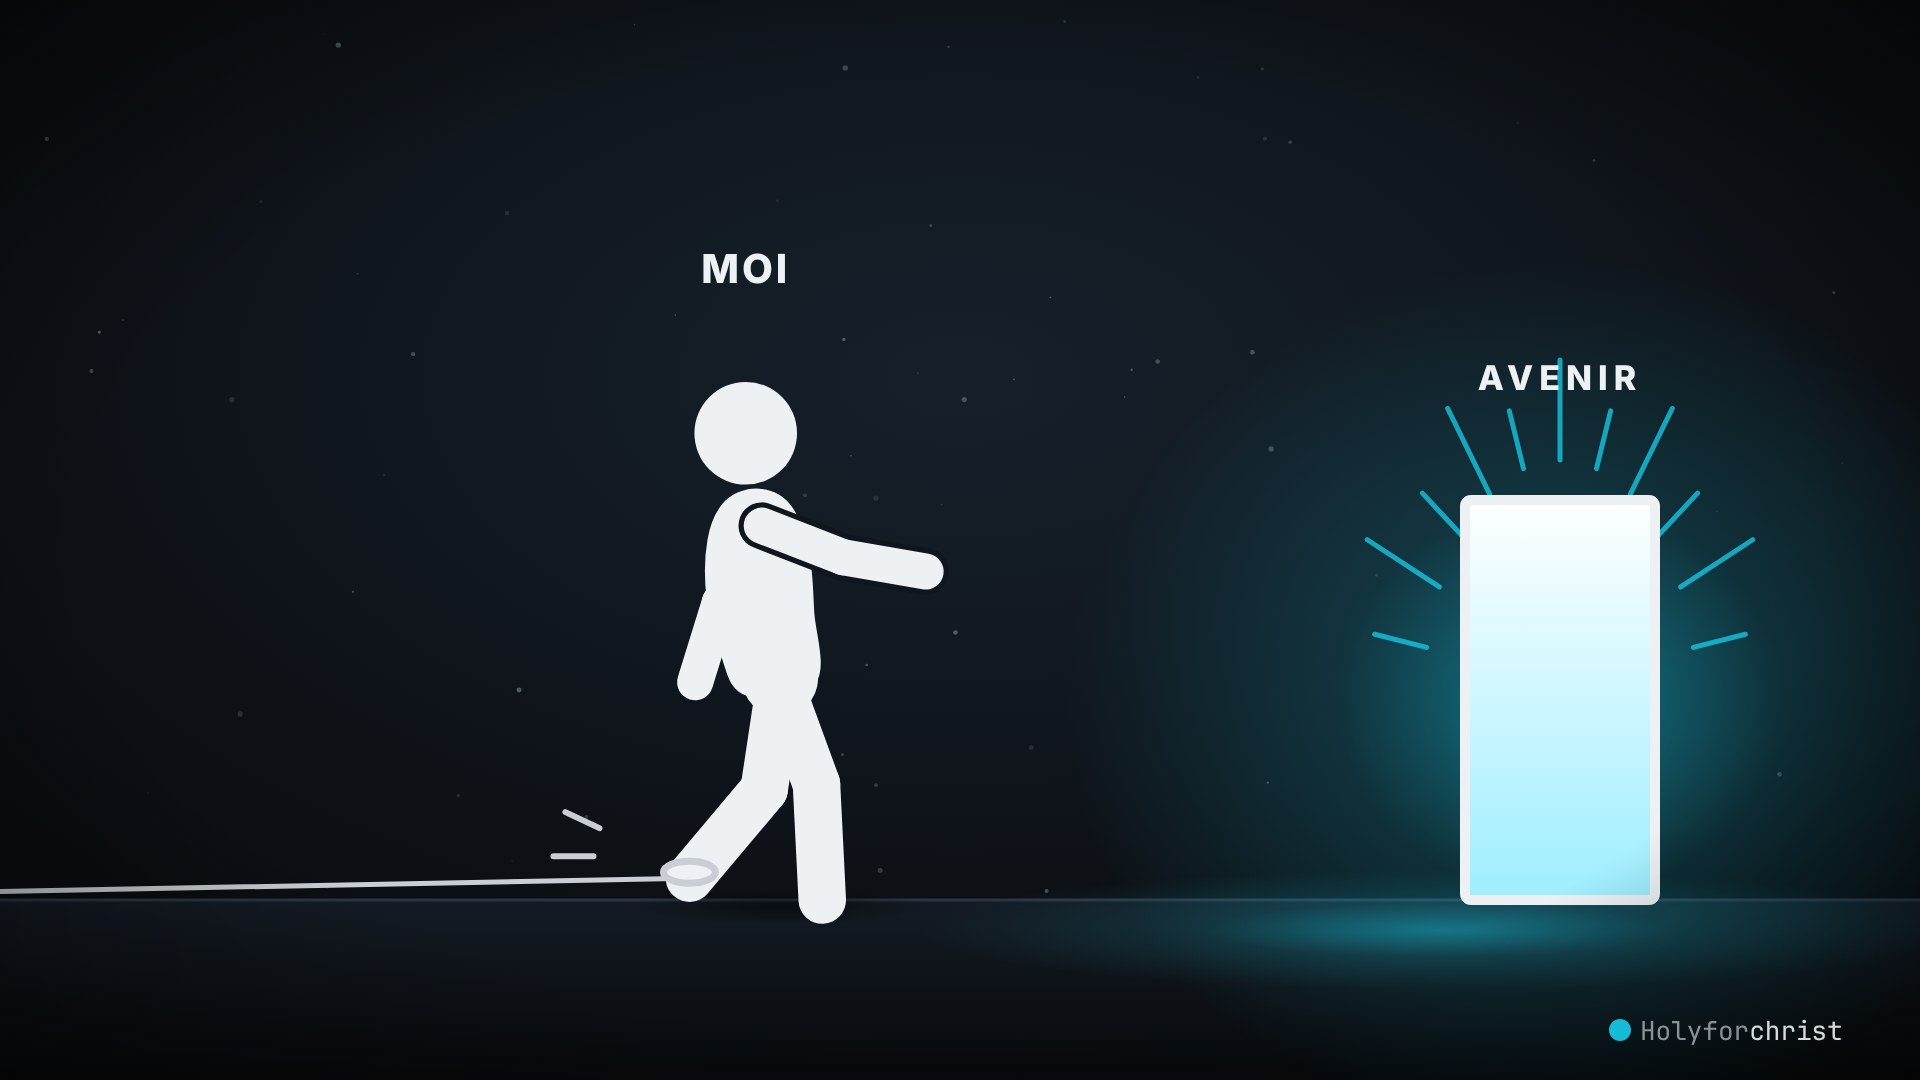
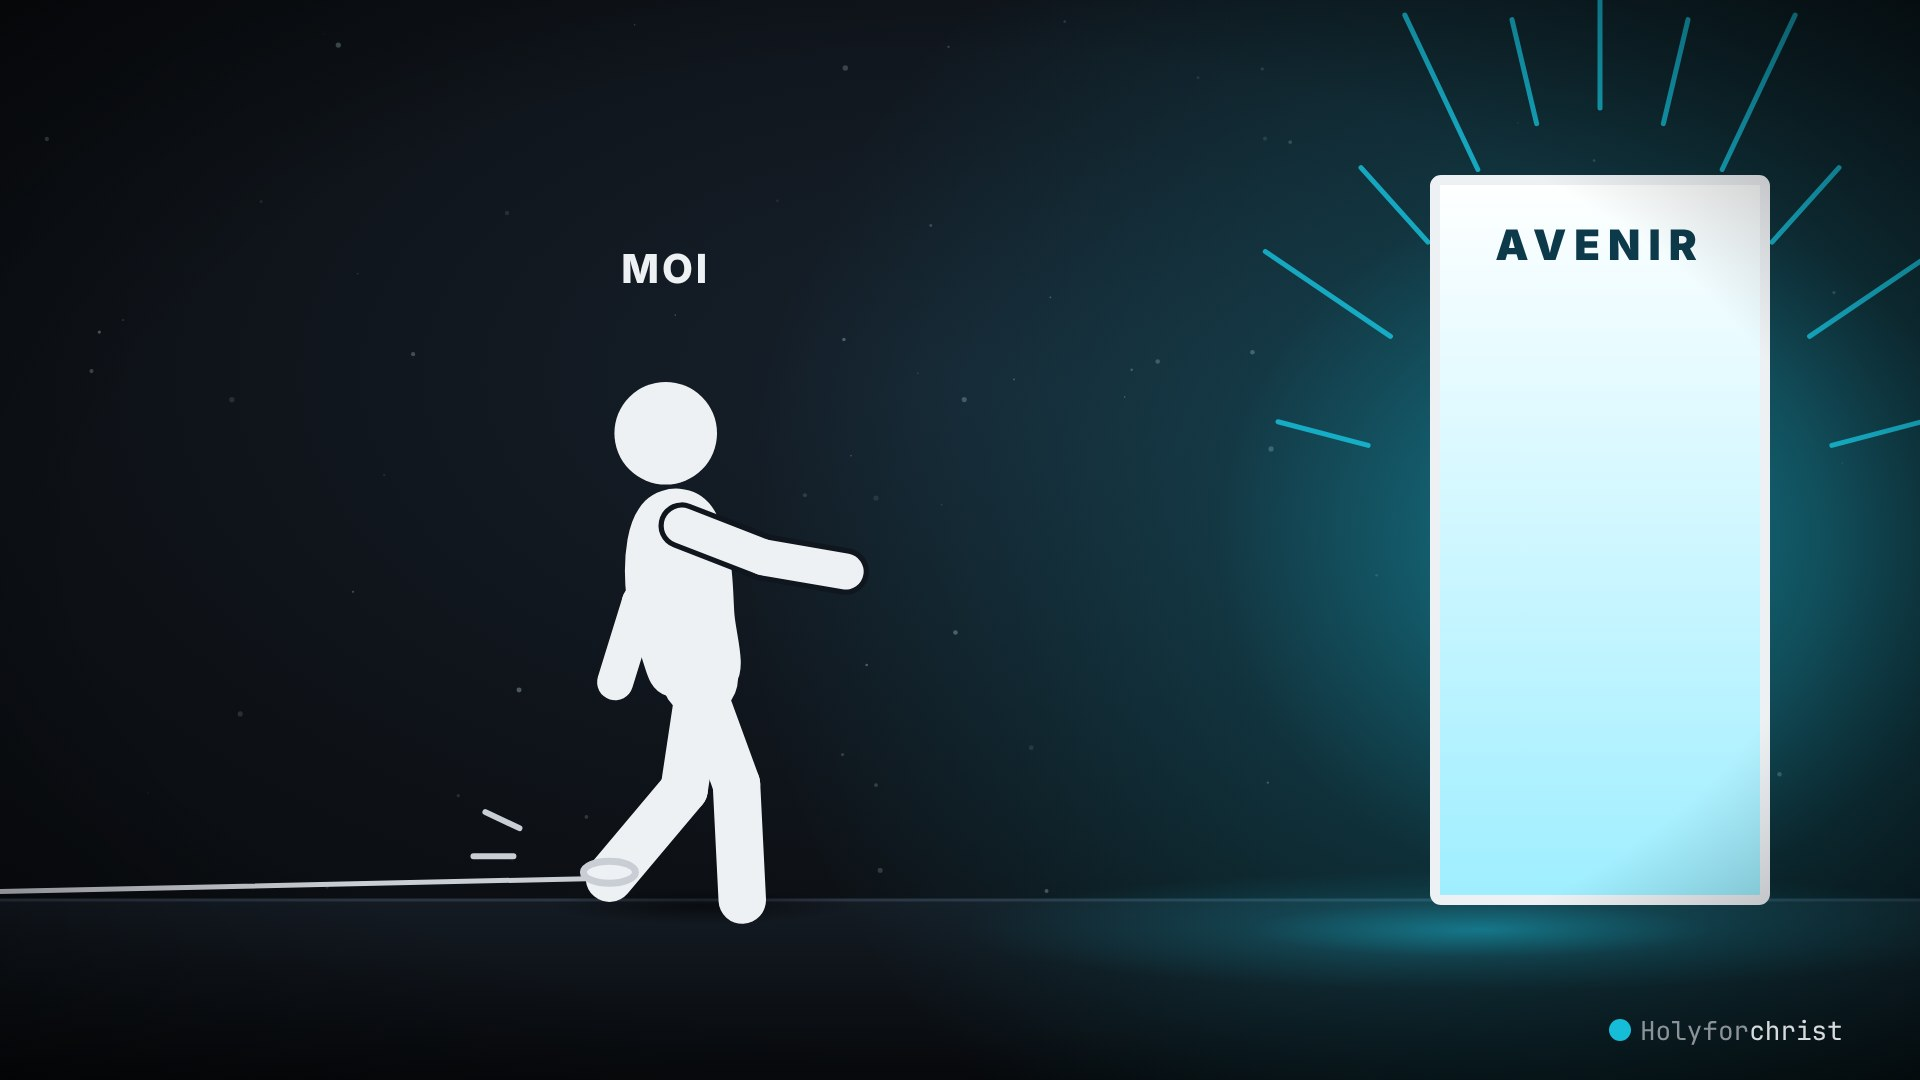
Holy: Le fil, grande porte et grosse pierre
Claude-Session: https://claude.ai/code/session_01CHvGS8RJVXEUEUzwJEWhyw

Changed region(s): [[0.5625, 0.0, 1.0, 0.8556], [0.1562, 0.3361, 0.5, 0.8556], [0.3125, 0.2139, 0.4062, 0.275]]

diff --git a/posts/2026-11-06-holy-le-fil/hl.js b/posts/2026-11-06-holy-le-fil/hl.js
@@ -19,20 +19,26 @@ function scene(){let g=defs()+`<rect width="1920" height="1080" fill="url(#sky)"
  return g;}
 function vignette(){return `<rect width="1920" height="1080" fill="url(#vig)"/><defs><radialGradient id="vig" cx="50%" cy="50%" r="75%"><stop offset="0.6" stop-color="#000" stop-opacity="0"/><stop offset="1" stop-color="#000" stop-opacity="0.6"/></radialGradient></defs>`;}
 function shadow(x,w=150){return `<ellipse cx="${x}" cy="${GRD+6}" rx="${w}" ry="18" fill="url(#shadow)"/>`;}
-function doorH(x,int=1,w=190,h=400){let g='';
+function doorH(x,int=1,w=330,h=720){let g='';
  g+=`<ellipse cx="${x}" cy="${GRD-h/2}" rx="${w*2.6*int}" ry="${h*1.1*int}" fill="url(#glowB)"/>`;
  g+=`<ellipse cx="${x-120}" cy="${GRD+30}" rx="${520*int}" ry="60" fill="url(#glowB)" opacity="0.8"/>`; // light spill on floor
  for(let i=0;i<11;i++){const a=-Math.PI/2+(i-5)*0.27;g+=`<line x1="${x+Math.cos(a)*w*0.72}" y1="${GRD-h/2+Math.sin(a)*h*0.6}" x2="${x+Math.cos(a)*w*(1.0+0.15*(i%2))}" y2="${GRD-h/2+Math.sin(a)*h*(0.75+0.1*(i%2))}" stroke="${BL}" stroke-width="5" stroke-linecap="round" opacity="${0.75*int}"/>`;}
  g+=`<rect x="${x-w/2}" y="${GRD-h}" width="${w}" height="${h}" rx="6" fill="url(#doorIn)"/><rect x="${x-w/2}" y="${GRD-h}" width="${w}" height="${h}" rx="6" fill="none" stroke="${FG}" stroke-width="10"/>`;
- g+=`<text x="${x}" y="${GRD-h-110}" text-anchor="middle" font-family="Inter" font-weight="800" letter-spacing="6" font-size="34" fill="${FG}">AVENIR</text>`;
+ g+=`<text x="${x}" y="${GRD-h+80}" text-anchor="middle" font-family="Inter" font-weight="900" letter-spacing="8" font-size="42" fill="#0d3a4a">AVENIR</text>`;
  return g;}
 function labH(p,t,c=FG,dy=150){return `<text x="${p[0]}" y="${p[1]-dy}" text-anchor="middle" font-family="Inter" font-weight="800" letter-spacing="3" font-size="40" fill="${c}">${t}</text>`;}
 function threadH(a,b,sag=0,w=5){const mx=(a[0]+b[0])/2,my=(a[1]+b[1])/2+sag;return `<path d="M${a[0]} ${a[1]} Q${mx} ${my} ${b[0]} ${b[1]}" stroke="#c9ced4" stroke-width="${w}" fill="none" stroke-linecap="round"/>`;}
 function ringH(p){return `<ellipse cx="${p[0]}" cy="${p[1]-6}" rx="26" ry="11" fill="none" stroke="#c9ced4" stroke-width="7"/>`;}
-function knotH(x){let g=`<ellipse cx="${x}" cy="${GRD-60}" rx="240" ry="160" fill="url(#dark)"/>`;
- g+=`<path d="M${x-95} ${GRD} q18 -120 95 -122 q84 0 98 122 z" fill="#2b323b" stroke="#c9ced4" stroke-width="5"/>`;
- for(let i=0;i<6;i++)g+=`<path d="M${x-75+i*12} ${GRD-20-i*14} q70 -50 ${130-i*20} ${6+i*5}" stroke="#c9ced4" stroke-width="4" fill="none" opacity=".8"/>`;
- g+=`<rect x="${x-80}" y="${GRD-210}" width="160" height="54" rx="10" fill="#1b2129" stroke="#c9ced4" stroke-width="4"/><text x="${x}" y="${GRD-173}" text-anchor="middle" font-family="Inter" font-weight="800" letter-spacing="3" font-size="30" fill="${FG}">PÉCHÉ</text>`;return g;}
+function knotH(x){const cx=x,cy=GRD;let g=`<ellipse cx="${cx}" cy="${cy-120}" rx="420" ry="260" fill="url(#dark)"/>`;
+ const K=1.45;const P=[[-230,0],[-250,-90],[-205,-200],[-110,-268],[10,-285],[120,-255],[205,-180],[245,-80],[235,0]].map(p=>[p[0]*K,p[1]*K]);
+ const d='M'+P.map(p=>`${cx+p[0]} ${cy+p[1]}`).join(' L')+' Z';
+ g+=`<path d="${d}" fill="#3a434e" stroke="#0b0f14" stroke-width="6" stroke-linejoin="round"/>`;
+ g+=`<path d="M${cx-290} ${cy-160} L${cx-232} ${cy-305} L${cx-87} ${cy-380} L${cx+58} ${cy-392} L${cx-72} ${cy-334} L${cx-203} ${cy-246} Z" fill="#56606c" opacity=".7"/>`; // highlight
+ g+=`<path d="M${cx+87} ${cy-362} l-44 87 l58 58 l-29 100 M${cx-217} ${cy-58} l72 -44 l44 29" stroke="#232a32" stroke-width="5" fill="none" stroke-linecap="round"/>`; // cracks
+ g+=`<path d="M${cx+336} ${cy-50} q30 -10 40 10 q-6 22 -36 18" stroke="#c9ced4" stroke-width="6" fill="none"/>`; // thread tied
+ g+=`<text x="${cx}" y="${cy-150}" text-anchor="middle" font-family="Inter" font-weight="900" letter-spacing="10" font-size="74" fill="#1a2027" opacity=".95">PÉCHÉ</text>`;
+ g+=`<text x="${cx}" y="${cy-154}" text-anchor="middle" font-family="Inter" font-weight="900" letter-spacing="10" font-size="74" fill="#d6dbe0" opacity=".85">PÉCHÉ</text>`;
+ return g;}
 function tagH(x,y,t){const w=t.length*19+34;return `<line x1="${x}" y1="${y}" x2="${x}" y2="${y+24}" stroke="#c9ced4" stroke-width="4"/><rect x="${x-w/2}" y="${y+24}" width="${w}" height="46" rx="8" fill="#1b2129" stroke="#c9ced4" stroke-width="3.5"/><text x="${x}" y="${y+56}" text-anchor="middle" font-family="Inter" font-weight="800" letter-spacing="2" font-size="24" fill="${FG}">${t}</text>`;}
 function halo(p,r=260,o=1){return `<circle cx="${p[0]}" cy="${p[1]}" r="${r}" fill="url(#glowB)" opacity="${o}"/>`;}
 function sig(){return `<g opacity="0.9"><circle cx="1620" cy="1030" r="11" fill="${BL}"/><text x="1640" y="1040" font-family="JetBrains Mono" font-size="26" fill="${GY}">Holyfor<tspan fill="${FG}">christ</tspan></text></g>`;}

diff --git a/posts/2026-11-06-holy-le-fil/kf.html b/posts/2026-11-06-holy-le-fil/kf.html
@@ -1,18 +1,18 @@
 <html><body style="margin:0;background:#0d1116"><svg width=1920 height=1080 id=s></svg><script src="pk.js"></script><script src="lib.js"></script><script src="hl.js"></script><script>
 const SS=0.95;
 const F={
-a:()=>{let g=scene()+doorH(1560);const m=man(780,GRD,PZ.pulled,{s:SS});g+=shadow(780)+threadH([-20,GRD-8],m.ank2,0)+m.svg+ringH(m.ank2)+labH(m.head,'MOI');
+a:()=>{let g=scene()+doorH(1600);const m=man(700,GRD,PZ.pulled,{s:SS});g+=shadow(700)+threadH([-20,GRD-8],m.ank2,0)+m.svg+ringH(m.ank2)+labH(m.head,'MOI');
  g+=`<path d="M${m.ank2[0]-90} ${m.ank2[1]-50} l-34 -16 M${m.ank2[0]-96} ${m.ank2[1]-22} l-40 0" stroke="#c9ced4" stroke-width="6" stroke-linecap="round"/>`;return g+vignette()+sig();},
-b:()=>{let g=scene()+knotH(330);const m=man(1440,GRD,PZ.kneelpull,{s:SS,f:-1});const A=[420,GRD-90],H=m.hand1;g+=shadow(1440)+threadH(A,H,0)+threadH(H,m.ank1,30);
+b:()=>{let g=scene()+knotH(420);const m=man(1500,GRD,PZ.kneelpull,{s:SS,f:-1});const A=[790,GRD-55],H=m.hand1;g+=shadow(1440)+threadH(A,H,0)+threadH(H,m.ank1,30);
  const at=t=>[A[0]+(H[0]-A[0])*t,A[1]+(H[1]-A[1])*t];[['MENSONGE',0.25],['COLÈRE',0.52],['HONTE',0.78]].forEach(([w,t])=>{const p=at(t);g+=tagH(p[0],p[1],w);});
  g+=m.svg+labH(m.head,'MOI');return g+vignette()+sig();},
-c:()=>{let g=scene()+knotH(300);const m=man(1000,GRD,PZ.kneel,{s:SS,f:-1});const j=man(1260,GRD,PZ.hand,{s:SS,f:-1});
+c:()=>{let g=scene()+knotH(360);const m=man(1180,GRD,PZ.kneel,{s:SS,f:-1});const j=man(1440,GRD,PZ.hand,{s:SS,f:-1});
  g+=halo(j.head,380)+shadow(1000)+shadow(1260);
- g+=threadH([390,GRD-90],[700,GRD-250],10)+threadH([740,GRD-250],m.ank1,20);
- g+=`<circle cx="720" cy="${GRD-250}" r="70" fill="url(#glowW)"/>`;
- for(let i=0;i<10;i++){const a=i*0.628;g+=`<line x1="${720+Math.cos(a)*30}" y1="${GRD-250+Math.sin(a)*30}" x2="${720+Math.cos(a)*64}" y2="${GRD-250+Math.sin(a)*64}" stroke="${BL}" stroke-width="5" stroke-linecap="round"/>`;}
+ g+=threadH([735,GRD-55],[880,GRD-230],10)+threadH([920,GRD-230],m.ank1,20);
+ g+=`<circle cx="900" cy="${GRD-230}" r="70" fill="url(#glowW)"/>`;
+ for(let i=0;i<10;i++){const a=i*0.628;g+=`<line x1="${900+Math.cos(a)*30}" y1="${GRD-230+Math.sin(a)*30}" x2="${900+Math.cos(a)*64}" y2="${GRD-230+Math.sin(a)*64}" stroke="${BL}" stroke-width="5" stroke-linecap="round"/>`;}
  g+=m.svg+j.svg+labH(m.head,'MOI',FG,140)+labH(j.head,'JÉSUS',BL);return g+vignette()+sig();},
-d:()=>{let g=scene()+doorH(1600,1.25);const j=man(1060,GRD,PZ.walk,{s:SS});const m=man(1300,GRD,PZ.joy,{s:SS});
- g+=halo(j.head,300,0.7)+shadow(1060)+shadow(1300)+threadH([200,GRD-6],[420,GRD-6],0)+j.svg+m.svg+labH(j.head,'JÉSUS',BL)+labH(m.head,'MOI',FG,140);return g+vignette()+sig();},
+d:()=>{let g=scene()+doorH(1640,1.2);const j=man(980,GRD,PZ.walk,{s:SS});const m=man(1220,GRD,PZ.joy,{s:SS});
+ g+=halo(j.head,300,0.7)+shadow(980)+shadow(1220)+threadH([200,GRD-6],[420,GRD-6],0)+j.svg+m.svg+labH(j.head,'JÉSUS',BL)+labH(m.head,'MOI',FG,140);return g+vignette()+sig();},
 };
 window.show=k=>{document.getElementById('s').innerHTML=F[k]();};show(location.hash.slice(1)||'a');</script></body></html>
